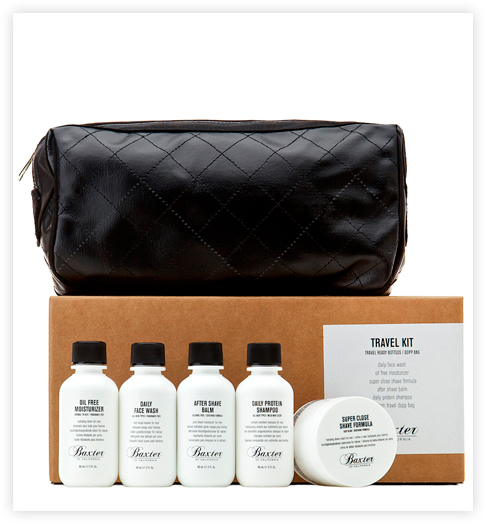
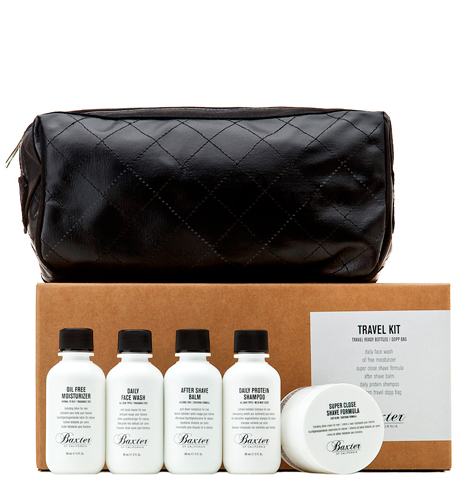
Исправлены изображения и файл стилей

diff --git a/catalog-item.html b/catalog-item.html
@@ -36,17 +36,17 @@
       <section class="product-photos">
         <h2 class="visually-hidden">Изображение товара</h2>
         <p class="product-photo-full">
-          <img src="img/travel-kit-photo.jpg" width="486" height="524" alt="Фото всего набора">
+          <img src="img/travel-kit-photo.jpg" width="460" height="490" alt="Фото всего набора">
         </p>
         <ul>
           <li>
-            <img src="img/travel-kit-mini-photo.png" width="166" height="175" alt="Фото в анфас">
+            <img src="img/travel-kit-mini-photo.jpg" width="140" height="149" alt="Фото в анфас">
           </li>
           <li>
-            <img src="img/travel-kit-mini-photo2.png" width="166" height="175" alt="Фото в профиль">
+            <img src="img/travel-kit-mini-photo2.jpg" width="140" height="149" alt="Фото в профиль">
           </li>
           <li>
-            <img src="img/travel-kit-mini-photo3.png" width="166" height="175" alt="Фото отдельной части">
+            <img src="img/travel-kit-mini-photo3.jpg" width="140" height="149" alt="Фото отдельной части">
           </li>
         </ul>
       </section>

diff --git a/css/style.css b/css/style.css
@@ -3,13 +3,7 @@ body {
   line-height: 24px;
   color: #000000;
   font-weight: normal;
-  font-family: "PT Sans Narrow", "PT Sans", sans-serif;
-}
-
-h1,
-h2,
-h3 {
-  font-weight: bold;
+  font-family: "PT Sans Narrow", "PT Sans", "Arial" sans-serif;
 }
 
 h1 {
